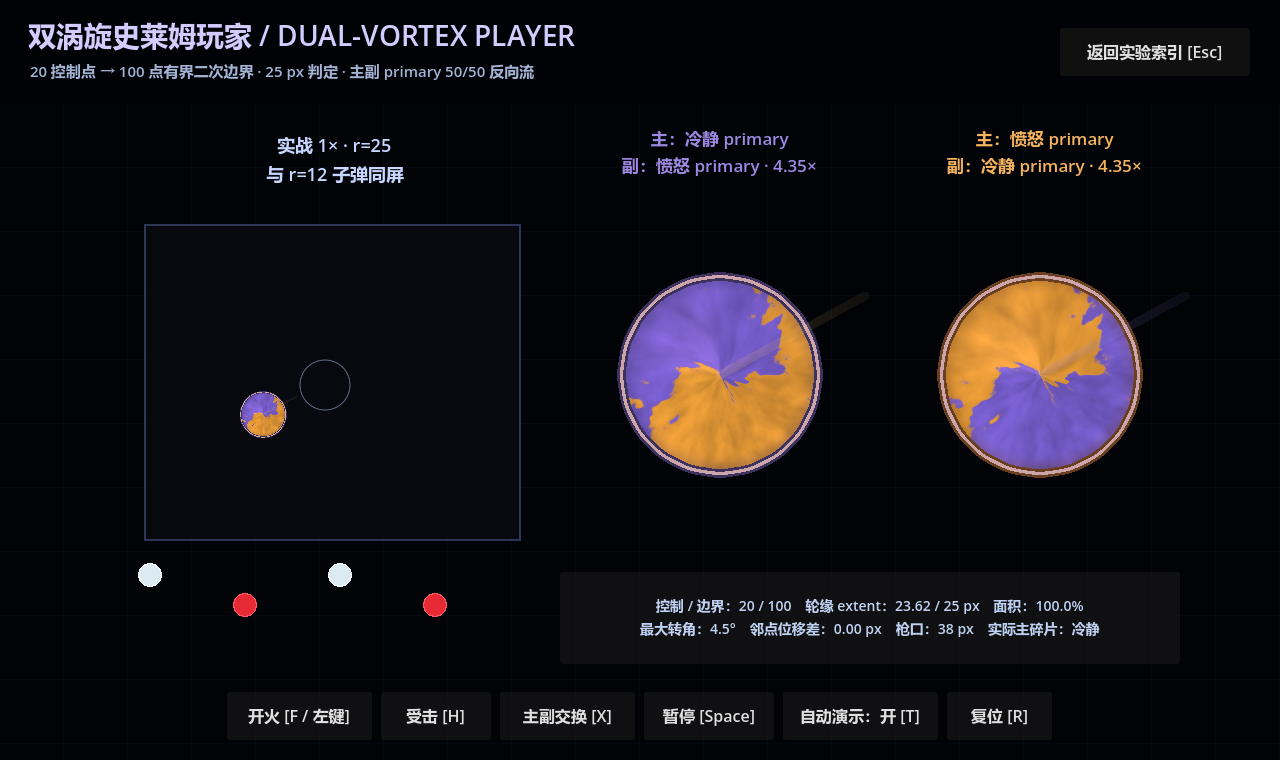
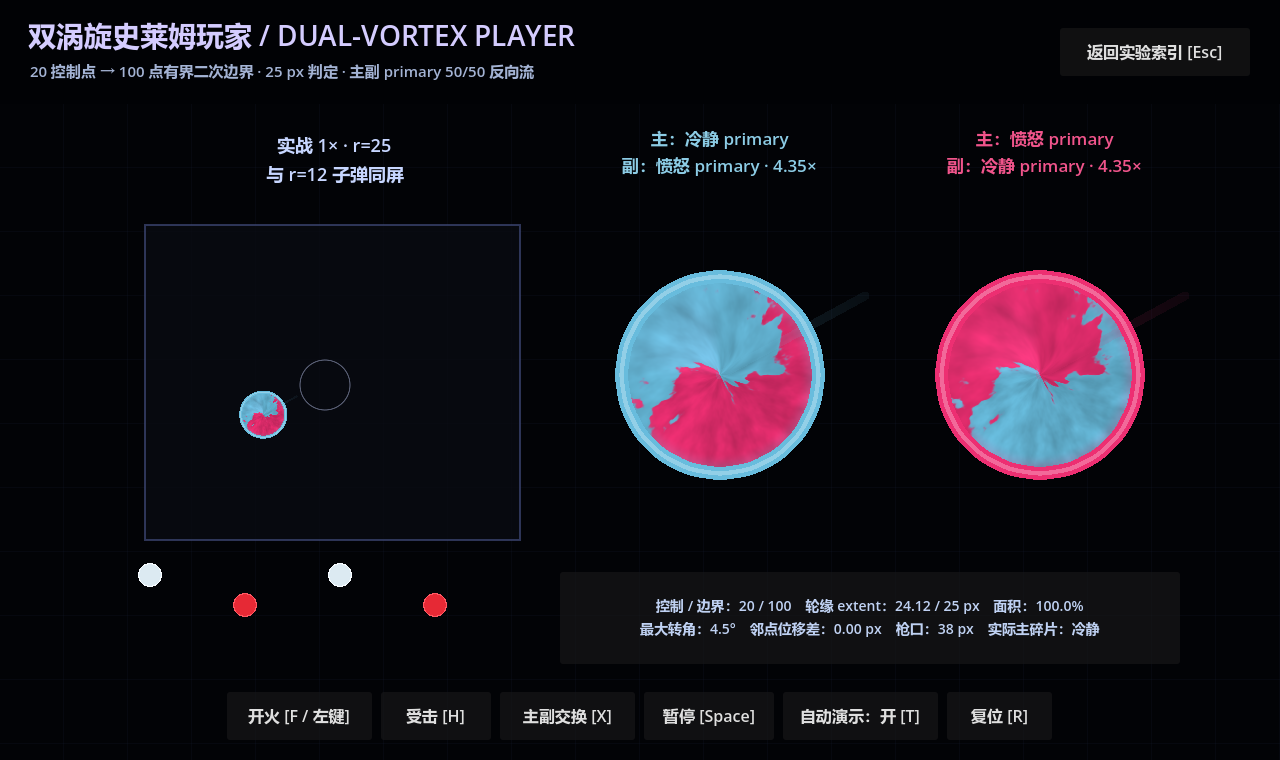
refactor(test-lab): finalize primary-only player slime palette

diff --git a/docs/AI记忆/项目记忆.md b/docs/AI记忆/项目记忆.md
@@ -26,7 +26,7 @@
 - **分辨率与宽高比**：ADR #131 后，正式客户端当前只设计 / 验收固定 16:9 分辨率，默认逻辑画布为 1920×1080；非 16:9 屏幕通过 `canvas_items + keep` 等比缩放并补黑边，不拉伸、不裁切、不扩大玩法视野。其他比例是 P3 优化，未来也按独立固定预设接入，不做连续任意比例适配。
 - **当前视角补充**：ADR #124 后当前正式视角改回俯视角 2D；正式玩家场景删除 `Player3DVisual` / `SubViewport + Camera3D` 正交视觉层，角色场景保存可编辑的 2D 俯视占位并按完整 `aim_direction` 显示朝向标记。ADR #125 后地图格、边界、机关、兴趣点 footprint 和撤离区都改为水平 / 垂直矩形俯视格。ADR #148 的 `Phantom Camera 0.11.0.3` 与 ADR #156 的唯一对局级 Rig 继续有效；ADR #167 取代严格居中：GLUED 跟随保持水平与等比缩放，首次有效瞄准后按 `camera_feedback.json` schema v3 平滑向 aim 偏移，鼠标以玩家实际屏幕位置换算，键盘 / 手柄 / Replay 用最大偏移并保持方向，暂停冻结。ADR #165 的受击 / 武器双 emitter 继续有效；稳定引导与震屏噪声分离，震屏设置不参与引导、弹道或玩家玩法位置。
 - **F12 撤离首片补充**：ADR #123 / #179 后，清理意识核不直接完成本局；它只开启贴合矩形地图格的撤离区，玩家站进撤离区完成短读条后才提交 `run.pending_loot`、删除 `run` 并显示完成面板。`extraction` 状态进入 run snapshot；死亡、重开、回标题或主动放弃仍丢失未结算战利品。现有代码 / 数据的旧目标 id 保持不变。
-- **当前状态**：详见 `docs/AI记忆/current_state.json`。双涡旋史莱姆玩家阶段一 Test Lab 人工门禁已完成：20 控制点 / 100 点有界二次边界、25 px 最终轮缘、双方 primary 本地反向涡旋、主 secondary 暗边与副 accent 38 px 渐隐短束均通过自动验证；正式 `client/`、ADR #183、数据和 Replay 尚未修改，必须等待用户人工确认。ADR #182 已取消图片、音频和字体按常见扩展名全局进入 Git LFS：当前 199 个、54.44 MiB 资产迁回普通 Git blob，保留 `binary` 属性与历史提交中的旧 LFS 指针；未来只有经单独决策的明确大型资产路径才可启用 LFS。ADR #179 已完成新 IP 的首轮玩家文案迁移并隐藏未定副标题；现有 locale key、`character_*` / `ui_hero_*` / `hero_*` / `enemy_*` 内部标识、Meta v2、Run v11、Replay v3 与游戏 v1.10 不变。ADR #161~#177 的智能碎片组合、金币成长、世界事件、显式攻击、人工检查边界、敌人金币公式、VFX 质量退役和弹药系统继续有效。ADR #181 已把正式共享 `bullet_basic` 改为敌我同形的四节点史莱姆圆弹：12 px 视觉 / 判定半径、350 px/s 基础速度，白 / 红平色内外层，无 Shader、高光、黑边、外发光或拖尾；玩家 650 px / 1.9 秒，敌人 720 px / 2.1 秒，零弹降级 175 px/s / 3.8 秒。该决策只取代 ADR #172 的敌弹速度、半径、寿命和枪口距离，枪口蓄光与四连发节奏保持。ADR #174 规定人工检查 / 人工验收 / L5 / 真实设备与视觉、听觉、手感验收只由人工执行，AI 只完成自动化验证并交付“待人工验收” checklist。ADR #143 后性能测试只由用户当次明确触发；后续工作以用户最后明确指令为准。
+- **当前状态**：详见 `docs/AI记忆/current_state.json`。双涡旋史莱姆玩家阶段一 Test Lab 人工门禁已完成：20 控制点 / 100 点有界二次边界、3 px 主色边叠 1 px 主色提亮湿润边且最终轮缘不越过 25 px；每个碎片只向史莱姆视觉贡献一个 primary，冷静 `#68BCDD` / 愤怒 `#ED2F72` 形成双 primary 本地反向涡旋，当前主 primary 同时控制内部轮缘、外部 Outline 与 38 px 渐隐短束。正式 `client/`、`characters.json` schema v3、ADR #183、数据和 Replay 尚未修改，必须等待用户人工确认。ADR #182 已取消图片、音频和字体按常见扩展名全局进入 Git LFS：当前 199 个、54.44 MiB 资产迁回普通 Git blob，保留 `binary` 属性与历史提交中的旧 LFS 指针；未来只有经单独决策的明确大型资产路径才可启用 LFS。ADR #179 已完成新 IP 的首轮玩家文案迁移并隐藏未定副标题；现有 locale key、`character_*` / `ui_hero_*` / `hero_*` / `enemy_*` 内部标识、Meta v2、Run v11、Replay v3 与游戏 v1.10 不变。ADR #161~#177 的智能碎片组合、金币成长、世界事件、显式攻击、人工检查边界、敌人金币公式、VFX 质量退役和弹药系统继续有效。ADR #181 已把正式共享 `bullet_basic` 改为敌我同形的四节点史莱姆圆弹：12 px 视觉 / 判定半径、350 px/s 基础速度，白 / 红平色内外层，无 Shader、高光、黑边、外发光或拖尾；玩家 650 px / 1.9 秒，敌人 720 px / 2.1 秒，零弹降级 175 px/s / 3.8 秒。该决策只取代 ADR #172 的敌弹速度、半径、寿命和枪口距离，枪口蓄光与四连发节奏保持。ADR #174 规定人工检查 / 人工验收 / L5 / 真实设备与视觉、听觉、手感验收只由人工执行，AI 只完成其余自动验证并交付“待人工验收” checklist。ADR #143 后性能测试只由用户当次明确触发；后续工作以用户最后明确指令为准。
 - **正式共享子弹表现**：`bullet_basic` 场景只保存唯一 `BulletSlimeVisual`，其 `EdgeEast / EdgeSouth / EdgeWest / EdgeNorth` 四个持久节点一次生成 64 点向心 Catmull-Rom 边界到 `Polygon2D Body + Line2D Rim`。玩家颜色为 `#DCEAF2 / #F6FBFF`，敌人为 `#E62935 / #FF5963`；configure / restore / reset / release 只换色与缩放，不重建节点。通用 `VfxRibbonTrail` 仍供其他效果使用，VFX baker 不再向子弹场景补回拖尾。
 - **视觉效果库 / UI 动效**：ADR #158 / #168 / #176 与 GDD §9.24 是统一表现架构权威。正式效果目录为 `client/data/visual_effects.json` schema v3，内容绑定为 `presentation_profiles.json`；稳定固定枚举进入词表 / 生成契约，effect/profile 主键由 DataLoader 校验，不要求代码常量。成品效果必须是可编辑组合 `PackedScene`；AnimationPlayer 默认有 RESET，Tween 只处理动态终值，Curve 为共享节奏资产，Shader preset 只读，程序几何只能作为 Ring / Arc / Wedge / RectTelegraph / RayBurst / ShockRing / RibbonTrail / ShardBurst / SegmentedShell / FocusTicks 等精选复合模板骨架。`RNG.vfx` 与玩法随机流隔离；所有玩家统一使用唯一正式 effect，不存在质量设置、质量变体或降档接口；命中停顿只保留字段，首版不驱动 GameClock。详细运行时、编辑器与建效流程见 `docs/代码/visual_effects.md`，UI 组件见 `docs/代码/ui_effects.md`。
 - **Steamworks Slime Lab 单人 AI 大招 / 自主游击 / 本地多人 / 纪录 / 网络 wire**：ADR #135 后玩家可见本地多人是单进程同屏，P1 固定键鼠，P2–P4 由独立手柄自动加入；ADR #136 后快照 wire 改为 FastLZ + 最多 900 字节分片，Lobby `lab_version=2`；ADR #137 后最长存活纪录拆为单人 / 多人两类，旧混合纪录清空。ADR #138 后所有自动 smoke 统一走 `py -3 tools\steamworks_lab_toolchain.py smoke`：每进程隔离 `user://`，精确检查成功 / 致命日志，battle 默认五轮，ENet 使用动态端口、host `READY` 和轻量 client 副本，并保护真实设置 / 存档与源码 `steam_appid.txt=4955670`。ADR #139 确立仅在 `PlayMode.SINGLE` 启用的 AI 队友大招：P1 子弹命中 / 普通击杀 / Boss 击杀合计充能 `+1 / +6 / +21`，100 点按 `E` 召唤持续 10 秒且不可受伤、不吸引火力、自动射击的 AI；松开再按住 `E` 可发起一次 AI 自动同意的合体，合体计入 10 秒。ADR #140 已把 AI 改为确定性自主游击 / 预判闪避：避开敌弹、普通敌人、Boss 和障碍物，常规距 P1 使用 210 px 硬限、超过 220 px 复位；按 `E` 后高速归队至 92 px 并停靠 0.8 秒再合体。目标 battle 1/1、local-couch 与权威 `smoke --suite all` 已通过，all 含 battle 5/5、动态端口 ENet、最大分片仍不超过 900 字节且受保护文件未改变。AI 不进入真人 roster、强化、纪录、玩家卡或网络快照，多人、wire、存档与正式 `client` 边界不变。测试不得备份真实玩家文件；Steam 仍一设备一玩家，ENet 只保留内部协议回归。详细入口为 `output/steamworks_lab/README.md`。

diff --git a/output/test_lab/README.md b/output/test_lab/README.md
@@ -25,7 +25,7 @@
 
 ## 当前实验
 
-- `player_slime_fusion_test.tscn`：正式玩家改造前的独立人工门禁原型，不修改 `client/`。实战样本固定 `r=25`，旁边同时显示 `r=12` 的正式史莱姆子弹尺寸参考；两份 4.35× 放大样本常驻展示“冷静主 / 愤怒副”和“愤怒主 / 冷静副”。每个玩家史莱姆只有 20 个环形控制点，每角固定 5 次有界二次曲线采样，最终共享 100 点边界给 `Body / Outline / WetRim`；单点速度、径向 / 切向位移、邻点速度与位移差、面积压力及最终轮缘都受限，开火和受击冲击只分散到连续 5 点，包含最宽暗轮缘的最终 extent 不得超过 25 px。`player_slime_dual_vortex.gdshader` 从角色本地 `VERTEX` 坐标生成 50/50 双涡旋：主 / 副智能碎片各用自身 `palette.primary`，主色流顺时针、副色流逆时针；主碎片 secondary 控制暗轮缘，副碎片 accent 控制从中心到 38 px 枪口的常驻双端渐隐短束，不使用 `SCREEN_UV`、眼睛、箭头或长瞄准线。场景默认自动移动、开火、受击和交换实际样本；WASD / 方向键移动，左键或 `F` 开火，`H` 受击，`X` 交换实际样本主副，`Space` 暂停，`T` 切换自动演示，`R` 复位，`Esc` 返回索引。`player_slime_fusion_smoke.gd` 检查 20 / 100 点契约、25 px 轮缘上限、面积 / 转角 / 邻点连续性、连续移动 / 开火 / 受击、暂停冻结、双方 primary uniform、五点冲击、38 px 光束、节点 / 材质稳定与固定步进确定性；`capture_player_slime_fusion.gd` 以固定步进和离开常驻光束的体内像素探针生成预览。双涡旋是否明确读成两股气、交换是否可辨、光束方向、动态尖点和与 12 px 子弹的实战区分均保持“待用户人工验收”；用户明确确认前不得接入正式 `client/`。
+- `player_slime_fusion_test.tscn`：正式玩家改造前的独立人工门禁原型，不修改 `client/`。实战样本固定 `r=25`，旁边同时显示 `r=12` 的正式史莱姆子弹尺寸参考；两份 4.35× 放大样本常驻展示“冷静主 / 愤怒副”和“愤怒主 / 冷静副”，每个碎片只向史莱姆视觉提供一个 primary，当前为冷静 `#68BCDD`、愤怒 `#ED2F72`。每个玩家史莱姆只有 20 个环形控制点，每角固定 5 次有界二次曲线采样，最终共享 100 点边界给 `Body / Outline / WetRim`；外缘由 3 px 主碎片色边叠 1 px 主色提亮湿润边，单点速度、径向 / 切向位移、邻点速度与位移差、面积压力及最终轮缘都受限，开火和受击冲击只分散到连续 5 点，包含最宽轮缘的最终 extent 不得超过 25 px。`player_slime_dual_vortex.gdshader` 从角色本地 `VERTEX` 坐标生成 50/50 双涡旋：主 / 副智能碎片各用自身 primary，主色流顺时针、副色流逆时针；内部轮缘、外部 Outline 和中心到 38 px 枪口的常驻双端渐隐短束统一使用主碎片 primary，不再读取 secondary / accent，也不使用 `SCREEN_UV`、眼睛、箭头或长瞄准线。场景默认自动移动、开火、受击和交换实际样本；WASD / 方向键移动，左键或 `F` 开火，`H` 受击，`X` 交换实际样本主副，`Space` 暂停，`T` 切换自动演示，`R` 复位，`Esc` 返回索引。`player_slime_fusion_smoke.gd` 检查 20 / 100 点契约、仅两个 primary 运行时槽、主色轮缘 / 光束、3 / 1 px 轮缘宽度、25 px 轮缘上限、面积 / 转角 / 邻点连续性、连续移动 / 开火 / 受击、暂停冻结、五点冲击、38 px 光束、节点 / 材质稳定与固定步进确定性；`capture_player_slime_fusion.gd` 以固定步进和离开常驻光束的体内像素探针生成预览。双涡旋是否明确读成两股气、交换是否可辨、光束方向、动态尖点和与 12 px 子弹的实战区分均保持“待用户人工验收”；用户明确确认前不得接入正式 `client/`。
 - `anchored_star_enemies_test.tscn`：三个自动移动的圆形敌人共享同一个 `ShaderMaterial`，内部程序化星点和星云只从 `SCREEN_UV` 采样；敌人的圆形 Polygon 只充当移动遮罩，因此敌人位移不会拖动星空，而是像三个窗口滑过同一片固定空间。三种半径和敌对轮缘色用于区分个体，运动轨迹与背景坐标标记用于观察位移，星点只做亮度闪烁而不平移 / 旋转。`Space` 暂停 / 继续，`R` 复位，`Esc` 返回索引。`anchored_star_enemies_smoke.gd` 自动检查三个敌人、共享材质、`SCREEN_UV` 锚定、实际位移和暂停冻结；`capture_anchored_star_enemies.gd` 在确定性时间点生成预览图。圆形敌人辨识度、透视感和星空密度仍待用户人工验收。
 - `slime_cross_2d_test.tscn`：把史莱姆软体方法迁移到 2D 十字架凹形轮廓的独立实验。十字架由 20 个顺序轮廓点直接组成长竖干、宽横臂与四个内凹角；静止轮廓与动态轮廓都使用有界二次圆角，曲线只在相邻边构成的局部范围内弯曲，不再因 Catmull-Rom 动态过冲生成尖刺。运行时除弹簧、阻尼、邻点相对形状保持和面积压力外，还对速度与“相对静止轮廓的位移”分别做邻点扩散，让局部冲击以宽波方式传播而不是由单点领先；点击冲击也统一朝物体内部施力。绘制层以暗色反边、薄荷胶体、深青内馅、湿润高光与内部气泡建立 2D 史莱姆材质。调试骨架默认开启：紫线 / 紫圈表示静止轮廓与静止点，黄色连线 / 黄点表示动态弹簧与普通控制点，粉点表示四个内凹控制点，青色辐条表示中心骨架，静止点到动态点的青线表示当前位移；`D` 或底部按钮可隐藏 / 显示。左键点击任意边缘施加局部冲击，`Space` 压扁，`R` 复原，`A` 切换自动脉冲，`Esc` 返回索引。`slime_cross_2d_smoke.gd` 自动检查调试层开关、20 点 / 4 凹角契约、横臂与竖干比例、凹角净距、局部形变、面积保持、动态最大转角、相邻位移连续性、连续多次冲击、回弹和整体压扁；`capture_slime_cross_2d.gd` 生成开启骨架的左横臂受击阶段预览。首版“静止好、运动出现尖尖”的人工反馈已用于本次修正，最终十字辨识度、果冻质感和动态观感仍待用户复验。
 - `slime_cross_perspective_test.tscn`：保留 `slime_cross_2d_test` 的 20 点凹形十字轮廓、四个内凹角、有界二次圆角、弹簧 / 阻尼 / 邻点保形、位移扩散与面积压力，只把薄荷胶体、内馅、高光和气泡替换为 `anchored_star_enemies_test` 原样复用的 `anchored_star_window.gdshader`。动态圆角边界每帧同步到一个固定 `Polygon2D + ShaderMaterial`，十字仅作为会移动、会形变的窗口；内容只从 `SCREEN_UV` 采样，因此星空不跟随十字平移或局部形变。十字沿小幅轨迹移动以暴露固定空间读法，局部冲击和整体压扁继续验证轮廓动态；`Space` 暂停移动，`F` 压扁，`R` 复原，`A` 切换自动脉冲，`D` 切换原调试骨架，左键冲击边缘，`Esc` 返回索引。`slime_cross_perspective_smoke.gd` 检查原始 20 点 / 4 凹角与比例、100 点动态圆角 Shader 遮罩、填充跟随形变、同一 Shader 资源、`SCREEN_UV` 锚定、整体位移、局部响应和面积保持；`capture_slime_cross_perspective.gd` 以固定步进生成确定性受击预览，并扫描远离轮缘的横臂内部亮像素，空白 / 透明 Shader 输出会直接失败。十字轮廓辨识度、深空间透视感、星空密度、移动时的窗口读法和边缘颜色仍待用户人工验收。

diff --git a/docs/AI记忆/会话日志/2026-08-05.md b/docs/AI记忆/会话日志/2026-08-05.md
@@ -4,8 +4,11 @@
 
 - 用户要求按既定两阶段计划实施玩家史莱姆改造；本轮严格停在阶段一，只新增独立 Test Lab 原型、自动门禁和预览，不修改正式 `client/`，也不创建待正式方案批准后才成立的 ADR #183。
 - 新 `TestLabPlayerSlimeFusion` 固定使用 20 个环形控制点，每个控制点以 5 次有界二次曲线采样生成 100 点共享边界；`Body / Outline / WetRim` 只更新既有节点。速度、径向 / 切向位移、邻点速度与位移连续性、面积压力和最终中心线半径均受限，最宽暗轮缘计入后不得越出 25 px 判定圆。开火与受击冲击只分散到连续 5 点，避免单点尖刺。
-- 新 `player_slime_dual_vortex.gdshader` 只从角色本地 `VERTEX` 坐标取样，不使用 `SCREEN_UV`。冷静 / 愤怒双方 `palette.primary` 形成 50/50 顺时针 / 逆时针两股气；主碎片 secondary 控制暗轮缘，副碎片 accent 控制从中心到 38 px 枪口的三段渐隐短束。没有眼睛、箭头或长瞄准线。
+- 新 `player_slime_dual_vortex.gdshader` 只从角色本地 `VERTEX` 坐标取样，不使用 `SCREEN_UV`。冷静 / 愤怒双方 primary 形成 50/50 顺时针 / 逆时针两股气；经用户后续收敛，每个碎片只向史莱姆视觉提供一个 primary，内部轮缘、外部 Outline 和中心到 38 px 枪口的三段渐隐短束均使用当前主碎片 primary。没有眼睛、箭头或长瞄准线。
 - `player_slime_fusion_test.tscn` 同屏提供移动 / 开火 / 受击的实战 `r=25` 样本、`r=12` 正式史莱姆子弹尺寸参照，以及“冷静主 / 愤怒副”“愤怒主 / 冷静副”两份 4.35× 放大预览。WASD / 方向键移动，左键或 `F` 开火，`H` 受击，`X` 交换实际样本主副，`Space` 暂停，`T` 切自动演示，`R` 复位。
-- 专项 smoke 的 720 帧连续移动 / 开火 / 受击压力结果为：面积比 `0.9313–1.0293`、最大最终轮缘 `24.8428 px`、最大边界转角 `5.719°`、最大邻点位移差 `1.070 px`。20 / 100 点拓扑、双方 primary uniform、角色本地反向流、连续五点冲击、38 px 光束、暂停冻结、主副交换、节点 / 材质不增长和固定步进几何一致性全部通过。
[1 lines of base64/hex data omitted]
+- 外轮缘加宽后的专项 smoke 720 帧连续移动 / 开火 / 受击压力结果为：面积比 `0.9316–1.0174`、最大最终轮缘 `24.8446 px`、最大边界转角 `5.703°`、最大邻点位移差 `1.067 px`。20 / 100 点拓扑、3 px 暗边 / 1 px 湿润亮边、双方 primary uniform、角色本地反向流、连续五点冲击、38 px 光束、暂停冻结、主副交换、节点 / 材质不增长和固定步进几何一致性全部通过。
[1 lines of base64/hex data omitted]
 - 当前人工门禁保持“待用户人工验收”：双涡旋是否读成两股气、主副交换是否可辨、短束方向是否清楚、连续形变是否无突出节点、实战玩家是否与 `r=12` 子弹混淆。用户明确确认前，不接正式 Player、数据、场景、ActorPresentationController 或黄金回放；未运行性能 probe。
+- 用户查看首版预览后认为紫橙主色观感不佳，明确把冷静 primary 改为 `#68BCDD`、愤怒 primary 改为 `#ED2F72`；Test Lab Shader 默认值、运行时 palette、主副交换预览和 smoke 精确断言同步更新。暗轮缘仍由各自主碎片 secondary 控制，枪口短束仍由副碎片 accent 控制，正式 `client/characters.json` 尚未修改；新配色继续等待人工验收。
+- 用户随后要求把边加宽；Test Lab 暗色 Outline 由 `2.0 px` 增至 `3.0 px`，湿润 WetRim 由 `0.75 px` 增至 `1.0 px`。求解器按新 Outline 半宽自动收紧中心线，最外缘仍不越过 `r=25` 判定圆；正式 `client/` 仍未修改。
+- 用户进一步确认每个碎片只需要一个 primary，并要求边与光束全部使用主碎片色。Test Lab `configure_palette()` 因此收敛为仅接收 main / sub primary，删除运行时 secondary / accent 状态和 Shader `rim_secondary` uniform；外部 Outline 与光束精确使用主 primary，WetRim 只由主 primary 提亮，主副交换时三者同步换到新主色。正式 `characters.json` schema v3 及其现有 secondary / accent 数据仍未修改，本轮只确定史莱姆视觉不读取它们。
